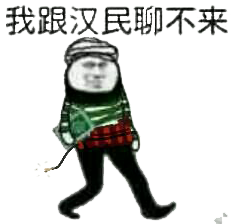
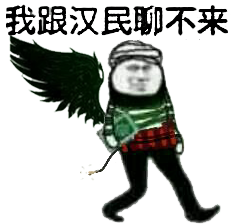
重大更新！
增加了尊贵的穆斯林客人

diff --git a/view.cpp b/view.cpp
@@ -71,6 +71,7 @@ float varListHeight = 0.2;
 
 extern float CPInterval;
 extern float CPBaseX, CPBaseY;
+extern float CPWidth, CPHeight;
 
 std::vector<Button> btnList;
 std::vector<Button> aniBtnList;
@@ -112,7 +113,7 @@ void delayedVarInit(int var) {
             aniBtnList.push_back(Button(playAndPause_normal, CPBaseX+0.06+i*CPInterval, CPBaseY+0.7, 0.06, 0.10667));
             aniBtnList[i].corspCP = i;
         }
-        aniBtnList.push_back(Button(gooff_normal, 0.7, -0.9, 0.3, 0.2));
+        aniBtnList.push_back(Button(gooff_normal, 0.7, -1.0, 0.3, 0.25));
         initFinished = true;
     } else {
         glutTimerFunc(1, delayedVarInit, 0);
@@ -163,6 +164,7 @@ void flush(int value) {
             for(int j = 0; j < CheckP[i]->getNum(); j++)
             (*(CheckP[i]))[j].move();
         }
+        drawObject(cp_muslim, Point(CPBaseX + 10*CPInterval, CPBaseY), CPWidth+0.05, CPHeight+0.26);
         drawCheckPoint();
         drawSerpQueue();
 
@@ -579,6 +581,13 @@ void loadTexture() {
 
     texId[muslim] = SOIL_load_OGL_texture(
         ".\\source\\muslim.png",
+        SOIL_LOAD_AUTO,
+        SOIL_CREATE_NEW_ID,
+        SOIL_FLAG_MIPMAPS | SOIL_FLAG_INVERT_Y | SOIL_FLAG_NTSC_SAFE_RGB
+    );
+
+    texId[cp_muslim] = SOIL_load_OGL_texture(
+        ".\\source\\cp_muslim.png",
         SOIL_LOAD_AUTO,
         SOIL_CREATE_NEW_ID,
         SOIL_FLAG_MIPMAPS | SOIL_FLAG_INVERT_Y | SOIL_FLAG_NTSC_SAFE_RGB

diff --git a/passenger.cpp b/passenger.cpp
@@ -12,6 +12,10 @@ float step = 0.02;
 // 距离终点多远时停止
 float stopEps = 0.05;
 
+extern float CPInterval;
+extern float CPBaseX, CPBaseY;
+extern float CPWidth, CPHeight;
+
 inline float sym(float a, float b) {
     if(std::abs(a - b) < stopEps) return 0.0f;
     else if(a - b > 0) return -1.0f;
@@ -20,10 +24,11 @@ inline float sym(float a, float b) {
 
 int Passenger::count = 0;
 
-Passenger::Passenger(int arriveTime, int checkTime, bool giveid) {
+Passenger::Passenger(int arriveTime, int checkTime, bool giveid, bool isMuslim) {
     if(giveid) id = count++;
     this->arriveTime = arriveTime;
     this->checkTime = checkTime;
+    this->isMuslim = isMuslim;
 
     texId = getPassengerTexId();
     this->width = ::width;
@@ -37,8 +42,13 @@ Passenger::Passenger() {
 }
 
 void Passenger::move() {
-    pos.x += sym(pos.x, route[routeId].x) * step;
-    pos.y += sym(pos.y, route[routeId].y) * step;
+    if(isMuslim) {
+        pos.x += sym(pos.x, CPBaseX + 10*CPInterval) * step;
+        pos.y += sym(pos.y, CPBaseY) * step;
+    } else {
+        pos.x += sym(pos.x, route[routeId].x) * step;
+        pos.y += sym(pos.y, route[routeId].y) * step;
+    }
     
 }
 
@@ -48,7 +58,7 @@ void Passenger::nextPoint() {
 
 void Passenger::draw(bool showNum) {
     if(isMuslim) {
-        drawObject(muslim, pos, 0.2, 0.2);
+        drawObject(muslim, pos, 0.2, 0.4);
     } else {
         Glyph::draw();
     }

diff --git a/demo.cpp b/demo.cpp
@@ -68,7 +68,7 @@ void run() {
 		//休息区to蛇形队列
 		while (!SerpQ.isFull() && !SerpQ.isclosed() && !RestA.isempty())
 		{
-			Passenger curp = Passenger(RestA.getFirstPassenger().arriveTime, RestA.getFirstPassenger().checkTime, true);
+			Passenger curp = Passenger(RestA.getFirstPassenger().arriveTime, RestA.getFirstPassenger().checkTime, true, RestA.getFirstPassenger().isMuslim);
 			curp.routeId = curFreeRtp;
 			SerpQ.addPassenger(curp);
 			//cout << "passenger added!" << endl;

diff --git a/passenger.h b/passenger.h
@@ -10,7 +10,7 @@ public:
     int routeId; // 要去哪个路径点
 	bool isMuslim;
     static int count;
-    Passenger(int arriveTime, int checkTime, bool giveid = false);
+    Passenger(int arriveTime, int checkTime, bool giveid = false, bool isMuslim = false);
     Passenger();
     void draw(bool showNum = false);
     void move();

diff --git a/globalvar.h b/globalvar.h
@@ -34,7 +34,7 @@ typedef enum textureName
     initbg, anibg, CPblock, CPpause,
     playAndPause_normal, playAndPause_hover, playAndPause_pressed,
     gooff_normal, gooff_hover, gooff_pressed,
-    muslim
+    muslim, cp_muslim
 }texName;
 
 typedef enum checkPointState
